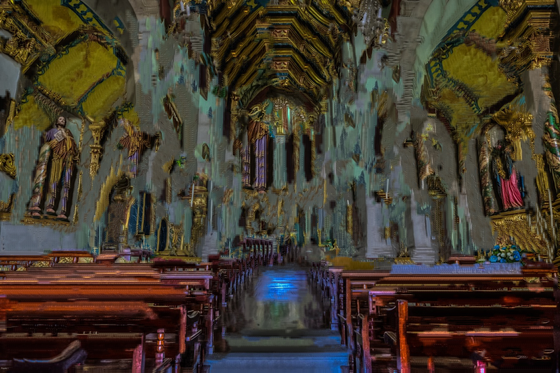
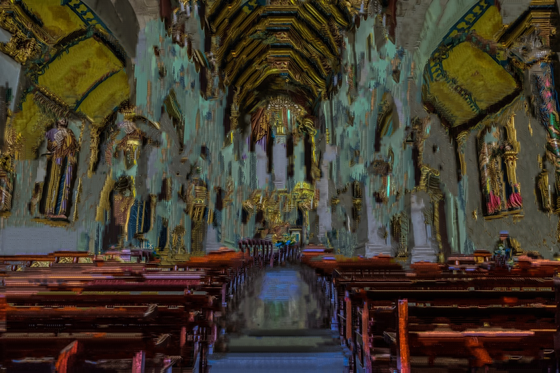
update results

diff --git a/README.md b/README.md
@@ -8,7 +8,23 @@ I run photo style transfer by [Deep Image Analogy](https://github.com/msracver/D
 
 ## Results
 
-| A (input) | AB (output) | BA (output) | B (input) |
+### Photo style transfer Refinement
+
+| A (input) | AP (output) | B (output) | BP (input) |
+|:---------:|:-----------:|:-----------:|:---------:|
+|![0_A](./images/0/A.png) | ![0_AB](./images/0/refineAB.png) | ![0_BA](./images/0/refineBA.png) | ![0_B](./images/0/B.png) |
+|![1_A](./images/1/A.png) | ![1_AB](./images/1/refineAB.png) | ![1_BA](./images/1/refineBA.png) | ![1_B](./images/1/B.png) |
+|![2_A](./images/2/A.png) | ![2_AB](./images/2/refineAB.png) | ![2_BA](./images/2/refineBA.png) | ![2_B](./images/2/B.png) |
+|![3_A](./images/3/A.png) | ![3_AB](./images/3/refineAB.png) | ![3_BA](./images/3/refineBA.png) | ![3_B](./images/3/B.png) |
+|![4_A](./images/4/A.png) | ![4_AB](./images/4/refineAB.png) | ![4_BA](./images/4/refineBA.png) | ![4_B](./images/4/B.png) |
+|![5_A](./images/5/A.png) | ![5_AB](./images/5/refineAB.png) | ![5_BA](./images/5/refineBA.png) | ![5_B](./images/5/B.png) |
+|![6_A](./images/6/A.png) | ![6_AB](./images/6/refineAB.png) | ![6_BA](./images/6/refineBA.png) | ![6_B](./images/6/B.png) |
+|![7_A](./images/7/A.png) | ![7_AB](./images/7/refineAB.png) | ![7_BA](./images/7/refineBA.png) | ![7_B](./images/7/B.png) |
+
+
+### Original Network Output
+
+| A (input) | AP (output) | B (output) | BP (input) |
 |:---------:|:-----------:|:-----------:|:---------:|
 |![0_A](./images/0/A.png) | ![0_AB](./images/0/resultAB.png) | ![0_BA](./images/0/resultBA.png) | ![0_B](./images/0/B.png) |
 |![1_A](./images/1/A.png) | ![1_AB](./images/1/resultAB.png) | ![1_BA](./images/1/resultBA.png) | ![1_B](./images/1/B.png) |
@@ -37,7 +53,15 @@ sh scripts/make_deep_image_analogy.sh
 
 ### How to Run
 
+***Caution***
+
+For photo2photo style transfer, use config below.
+
+- Blend Weight: `3`
+
+- WLS Filter: `1`
+
 ```bash
 export LD_LIBRARY_PATH="./build/lib" 
-./demo deep_image_analogy/models/ /path/to/img/A.png /path/to/img/B.png /path/to/output/dir/ 0 0.5 2 0
+./demo deep_image_analogy/models/ /path/to/img/A.png /path/to/img/B.png /path/to/output/dir/ 0 0.5 3 1
 ```
